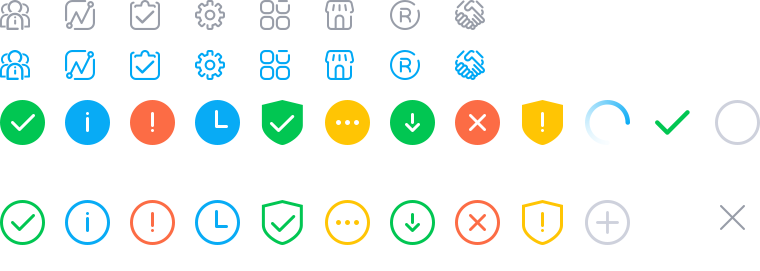
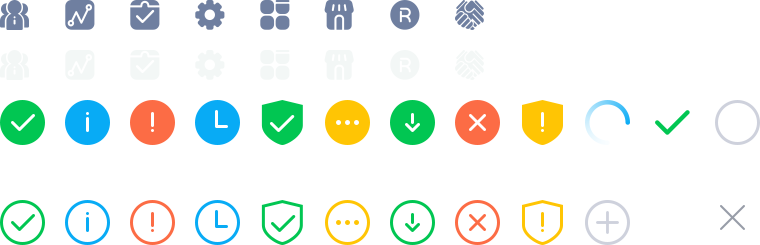
new css

diff --git a/debug/css/svm.css b/debug/css/svm.css
@@ -97,26 +97,25 @@ body{/*position: absolute; top: 0; right: 0; bottom: 0; left: 0;*/ color: #333;}
 
 /** --------布局-------- **/
 /** --------顶部导航-------- **/
-.navbar{min-height: 45px;}
-.navbar-default{margin-bottom: 0; height: 45px; background-color: #1397da; border: none; border-radius: 0;}
+.navbar-default{margin-bottom: 0; height: 70px; background-color: #1397da; border: none; border-radius: 0;}
 /** --------内容-------- **/
-.container-fixed{position: absolute; top: 45px; right: 0; bottom: 0; left: 0;display: none}
+.container-fixed{position: absolute; top: 70px; right: 0; bottom: 0; left: 0;display: none}
 .container-fixed > .row{height: 100%;}
-.page-content{position: absolute; z-index: 0; top: 0; right: 0; bottom: 0; left: 100px; padding: 0; /*overflow-y: auto;*/}
+.page-content{position: absolute; z-index: 0; top: 0; right: 0; bottom: 0; left: 120px; padding: 0; /*overflow-y: auto;*/}
 
 /** --------左侧导航-------- **/
-.slidebar{position: fixed; z-index: 900; top: 45px; bottom: 0; left: 0; padding: 0; width: 100px; overflow: visible; background-color: #f8f9fa; border-right: solid #ced1dc 1px;}
+.slidebar{position: fixed; z-index: 900; top: 70px; bottom: 0; left: 0; padding: 0; width: 120px; overflow: visible; background-color: #364152;}
 .slidebar-title{position: relative;}
-.slidebar-title > li{padding-top: 5px; padding-bottom: 5px; height: 80px; text-align: center; border-bottom: solid #ced1dc 1px; cursor: pointer;}
+.slidebar-title > li{padding-top: 10px; padding-bottom: 15px; color: #6e82a2; text-align: center; border-bottom: solid #4f5b70 1px; cursor: pointer;}
 /** 导航栏——选中状态 **/
-.slidebar-title:hover > li, .slidebar-title.active > li{color: #00a8f5; background-color: #fff;}
+.slidebar-title:hover > li, .slidebar-title.active > li{color: #f3f7f6; background-color: #425167;}
 .slidebar-title.active > li:after{content: ''; position: absolute; top: 0; right: -1px; width: 1px; height: 100%; background-color: #fff;}
-.slidebar-list{display: none; position: absolute; top: -1px; left: 100%; width: 160px; background-color: #fff; border: solid #ced1dc 1px;}
-.slidebar-list > li{padding: 5px 20px; border-bottom: solid #ced1dc 1px; box-sizing: border-box; cursor: pointer;}
+.slidebar-list{display: none; position: absolute; top: -1px; left: 100%; width: 160px; background-color: #364152;/* border: solid #ced1dc 1px;*/}
+.slidebar-list > li{padding: 5px 20px; color: #6e82a2; border-bottom: solid #4f5b70 1px; box-sizing: border-box; cursor: pointer;}
 .slidebar-list > li:last-child{border-bottom: none;}
-.slidebar-list > li:hover{color: #fff; background-color: #1397da;}
+.slidebar-list > li:hover{color: #f3f7f6; background-color: #425167;}
 /** 图标 **/
-.slidebar-title i{display: block; margin: 5px auto; margin-bottom: 10px; width: 30px; height: 30px; background: url(../images/icons_all.png) no-repeat;}
+.slidebar-title i{display: block; margin: 10px auto; margin-bottom: 15px; width: 30px; height: 30px; background: url(../images/icons_all.png) no-repeat;}
 .slidebar-title i.agency{background-position: 0 0;}
 .slidebar-title:hover i.agency, .slidebar-title.active i.agency{background-position: 0 -50px;}
 
@@ -463,9 +462,9 @@ body{/*position: absolute; top: 0; right: 0; bottom: 0; left: 0;*/ color: #333;}
 .sd-btn-radius .div2{font-size:12px;display:none;width:100%;background:#fff;float: left;color:#333;padding:10px 10px 20px 10px;white-space: normal;text-align: left;display:none}
 .sd-btn-radius .div2 .p-title{color:#0094da;margin:10px 0 0 0}
 .sd-btn-radius .div2 .p-cont{color:#aaa;margin: 5px 0 0 0}
-.index-head-logo{height:45px;width:240px;line-height:45px;text-align:center;font-size:16px;float: left;color:#fff;cursor:pointer}
-.index-head-user{height:45px;width:200px;line-height:45px;text-align:center;position:relative;float: right;color:#fff;font-size:14px;cursor:pointer}
-.index-head-user .ihu-title-block{position:absolute;top:45px;left:0;width:200px;height:100px;display: none;border-left: 1px solid #ccc;border-bottom: 1px solid #ccc;background: #fff}
+.index-head-logo{height:70px;/*width:240px;*/line-height:70px;/*text-align:center;*/font-size:24px;float: left;color:#fff;cursor:pointer}
+.index-head-user{height:70px;width:200px;line-height:70px;text-align:center;position:relative;float: right;color:#fff;font-size:14px;cursor:pointer}
+.index-head-user .ihu-title-block{position:absolute;top:70px;left:0;width:200px;height:100px;display: none;border-left: 1px solid #ccc;border-bottom: 1px solid #ccc;background: #fff}
 .index-head-user .ihu-title-block div{border-top:0px solid #fff;font-size:14px;cursor:pointer}
 .btn-index{background:#0c5689;color:#fff;}
 .btn-index:hover{background:#337ab7}
@@ -634,18 +633,34 @@ body{/*position: absolute; top: 0; right: 0; bottom: 0; left: 0;*/ color: #333;}
 .login-footer-foot .footer-link:last-child{border-right: none;}
 
 /** ----新登录——表单---- **/
-.login-form{position: absolute; z-index: 99; top: 50%; right: 200px; overflow: hidden; margin-top: -220px; width: 310px; height: 340px;/* background: url(../images/temp/login-form.jpg) no-repeat;*/ background-color: #fff; border-radius: 5px; box-shadow: 6px 5px 16px 0 rgba(74,49,19,.85); opacity: .8;}
+.login-form, .register-form{position: absolute; z-index: 99; top: 50%; right: 200px; overflow: hidden; margin-top: -220px; width: 310px; height: 340px; background-color: rgba(255,255,255,.8); border-radius: 5px; box-shadow: 6px 5px 16px 0 rgba(74,49,19,.8);}
+.register-form{display: none;}
 .login-form-container{padding: 0 20px;}
+.login-container .login-alert{position: absolute; top: 21px; left: 0; padding-top: 4px; padding-right: 35px; padding-bottom: 4px; padding-left: 42px; width: 100%; box-sizing: border-box; background: url(../images/login/icons-warning.png) 20px 0 #f0d6d0 no-repeat;}
 .login-form-title{margin-top: 16px; font-size: 24px;}
 /* 表单 */
 .login-form .form{margin-top: 21px; margin-bottom: 36px;}
-.login-form .form-group{margin-top: 20px;/* margin-bottom: 17px;*/ width: 100%; height: 45px; padding-top: 5px; padding-right: 0; padding-bottom: 5px; padding-left: 0; box-sizing: border-box; border: solid rgba(51,51,51,.4) 1px; border-radius: 3px;}
+.register-form .form{margin-top: 21px;}
+.login-form .form-group, .register-form .form-group{margin-top: 20px; width: 100%; height: 45px; box-sizing: border-box;}
+.login-form .form-group{padding-top: 5px; padding-right: 0; padding-bottom: 5px; padding-left: 0; border: solid rgba(51,51,51,.4) 1px; border-radius: 3px;}
+.register-form .form-group{margin-top: 15px;}
+
 .login-form .form-group i{float: left; display: block; width: 47px; height: 100%; background: url(../images/login/icons-login.png) no-repeat; border-right: solid #333 1px;}
 .login-form .form-group i.user{background-position: 10px 5px;}
 .login-form .form-group i.password{background-position: 10px -35px;}
-.login-form .form-group input{float: left; padding: 6px 10px; width: 220px; height: 100%; box-sizing: border-box; border: none; outline: none;}
+.login-form .form-group input{float: left; padding: 6px 10px; width: 220px; height: 100%; box-sizing: border-box; background-color: transparent; border: none; outline: none;}
+.register-form .form-group input{padding: 11px 10px; width: 100%; height: 100%; box-sizing: border-box; background-color: transparent; border: solid rgba(51,51,51,.4) 1px; border-radius: 3px; outline: none;}
+/* 验证码输入框 */
+.register-form input.login-input-code{float: left; width: 150px; box-sizing: border-box;}
+/* 获取验证码按钮 */
+.register-form .btn-getCode{float: left; margin-left: 10px; padding: 11px 0; width: 110px; text-align: center; border: solid rgba(51,51,51,.4) 1px; border-radius: 3px; cursor: pointer;}
+.register-form .btn-getCode:hover{background-color: rgba(255,255,255,.4);}
 /* 登录按钮 */
 .login-form .btn-login{padding: 10px 0; width: 100%; font-size: 18px; color: #fff; text-align: center; background-color: rgba(38,175,245,.7); border-radius: 3px; cursor: pointer;}
+.login-form .btn-login:hover{background-color: rgb(38,175,245);}
+/* 注册按钮 */
+.register-form .btn-register{margin-top: 20px; padding: 10px 0; width: 100%; font-size: 18px; color: #fff; text-align: center; background-color: rgba(255,190,0,.7); border-radius: 3px; cursor: pointer;}
+.register-form .btn-register:hover{background-color: rgb(255,190,0);}
 /* 记住密码等 */
 .login-form .options{margin-top: 8px; color: rgba(51,51,51,.7);}
 .login-form .options label{margin-bottom: 0; font-weight: normal;/* cursor: pointer;*/}
@@ -653,7 +668,9 @@ body{/*position: absolute; top: 0; right: 0; bottom: 0; left: 0;*/ color: #333;}
 /* 注册 */
 .login-form .register-line{position: absolute; bottom: 0; left: 0; padding: 6px 0; width: 100%; color: #fff; text-align: center; background-color: rgba(51,51,51,.6);}
 .login-form .btn-register{color: #ffc800; cursor: pointer;}
-
+/* 登录 */
+.register-form .login-line{position: absolute; bottom: 0; left: 0; padding: 8px 0; width: 100%; color: #666; text-align: center;}
+.register-form .btn-login{color: #26aff5; text-decoration: underline; cursor: pointer;}
 
 /** ----新登录---- **/
 /** swiper **/
@@ -736,4 +753,4 @@ body{/*position: absolute; top: 0; right: 0; bottom: 0; left: 0;*/ color: #333;}
 @keyframes toggleShow{ 0%{opacity: 0;} 7%{opacity: 0;} 90%{opacity: 1;} 100%{opacity: 1;} }
 
 .index-head-logo span{font-size:24px}
-.index-head-logopic{background: url("../images/logos.png")no-repeat 0 0;height:36px;width:27px;float:left;margin:4px 0 0 20px}
+.index-head-logopic{background: url("../images/logos.png")no-repeat 0 17px;height:70px;width:27px;float:left;margin-left: 20px; margin-right: 10px;}

diff --git a/debug/login-new.html b/debug/login-new.html
@@ -18,6 +18,7 @@
 		<div class="login-container">
 			<!-- 登录表单 -->
 			<div class="login-form">
+				<div class="alert alert-danger alert-dismissible login-alert"><div class="close"><span aria-hidden="true">&times;</span></div>错！！！！</div>
 				<div class="login-form-container">
 					<p class="login-form-title">用户登录</p>
 					<div class="form">
@@ -40,7 +41,28 @@
 						<div class="pull-right fetchpwd">忘记密码？</div>
 					</div>
 				</div>
-				<div class="register-line">没有账号？<span class="btn-register">立即注册！</span></div>
+				<div class="register-line">没有账号？<span id="registerNow" class="btn-register">立即注册！</span></div>
+			</div>
+
+			<!-- 注册表单 -->
+			<div class="register-form">
+				<div class="login-form-container">
+					<p class="login-form-title">用户注册</p>
+					<div class="form">
+						<div class="form-group clearFix">
+							<input type="text" placeholder="请输入11位手机号" />
+						</div>
+						<div class="form-group clearFix">
+							<input type="password" placeholder="6-20位字符，建议数字字母组合" />
+						</div>
+						<div class="form-group clearFix">
+							<input class="login-input-code" type="text" placeholder="请输入验证码" />
+							<div class="btn-getCode">获取验证码</div>
+						</div>
+					</div>
+					<div class="btn-register">注册</div>
+				</div>
+				<div class="login-line">已有账号？<span id="loginNow" class="btn-login">登录</span></div>
 			</div>
 
 			<!-- 头部 -->

diff --git a/debug/js/login-new.js b/debug/js/login-new.js
@@ -25,17 +25,34 @@ $(function() {
         }, 2000);
     });
 
+    // 点击“立即注册”
+    $("#registerNow").bind("click", function() {
+        $(".login-form").slideUp();
+        $(".register-form").slideDown();
+    });
+
+    // 点击“登录”
+    $("#loginNow").bind("click", function() {
+        $(".register-form").slideUp();
+        $(".login-form").slideDown();
+    });
+
+    // 关闭提示框
+    $(".alert-dismissible .close").bind("click", function() {
+        $(this).parents(".alert").hide();
+    })
+
     $(".fetchpwd").bind("click", function () {
         window.location.href = "../changepwd?fullscreen";
     });
 
-    $(".btn-register").bind("click", function () {
-//        window.location.href = "";
-        alert("程序猿加班更新中......");
-    });
+    // $(".btn-register").bind("click", function () {
+    //     // window.location.href = "";
+    //     alert("程序猿加班更新中......");
+    // });
 
 
-    $(".btn-login").bind("click", function () {
+    $(".login-form .btn-login").bind("click", function () {
         $(".form-block-msg").hide();
         var logintel = $("#logintel").val();
         var loginpwd = $("#loginpwd").val();
